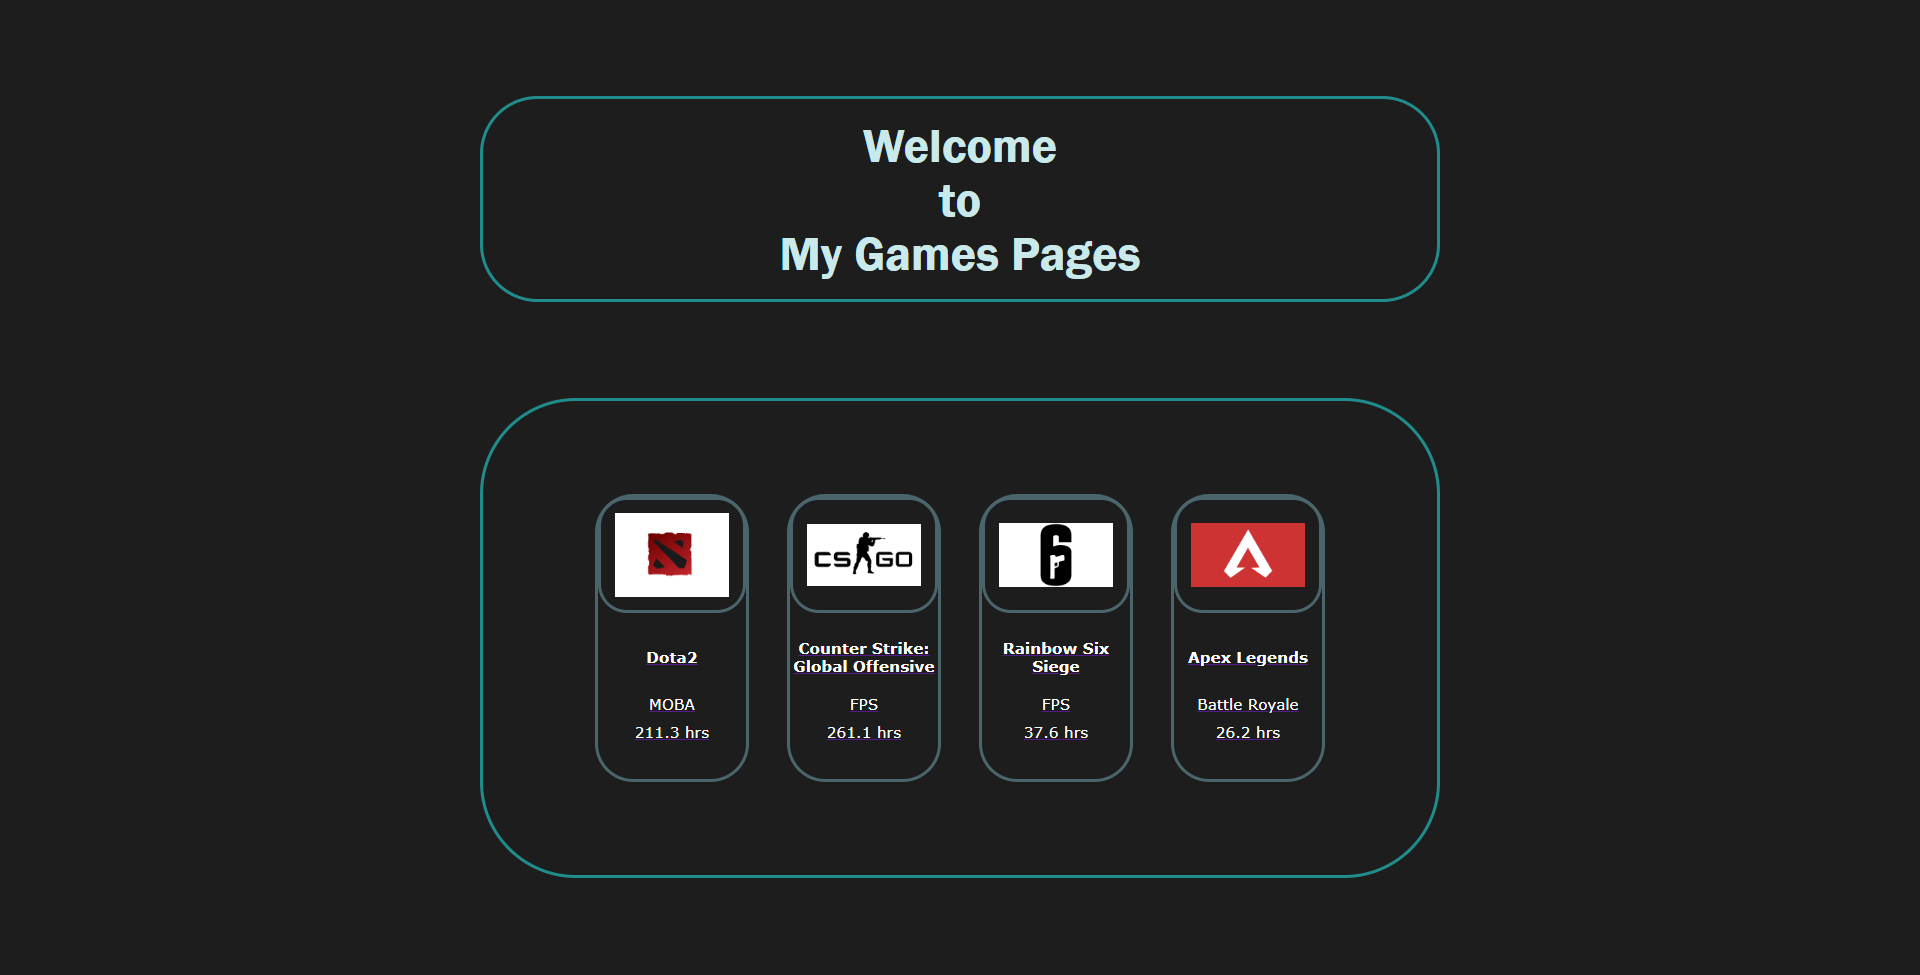
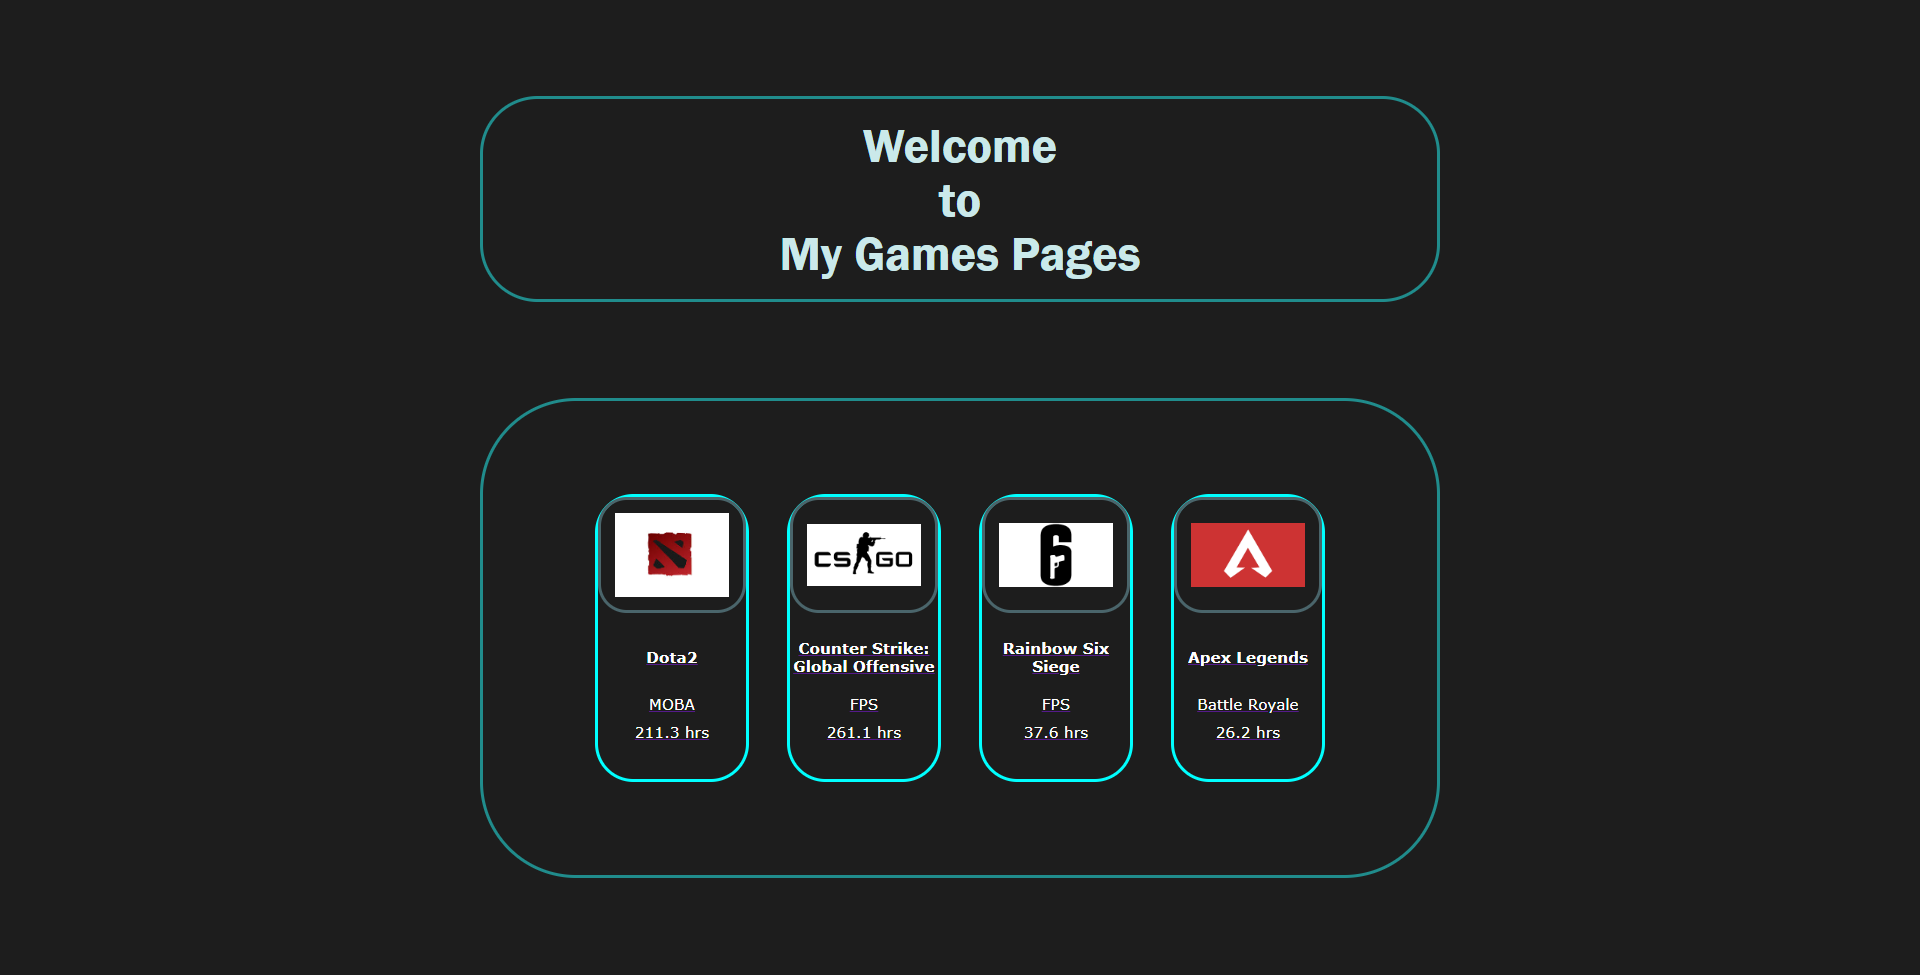
SL2 fifth commit

diff --git a/public/css/games.css b/public/css/games.css
@@ -52,7 +52,7 @@
     display: flex;
     flex-direction: column;
     border-radius: 2vw;
-    border: #4a656b solid;
+    border: cyan solid;
 }
 
 .box-gambar{

diff --git a/resources/views/data/description.blade.php b/resources/views/data/description.blade.php
@@ -8,18 +8,76 @@
     <link rel="stylesheet" href="css/description.css">
 </head>
 <body>
+<style>
+* {
+    padding: 0;
+    margin: 0;
+    box-sizing: border-box;
+}
+
+.box-luar{
+    height: 50.8vw;
+    width: 100%;
+    display: flex;
+    flex-direction: column;
+    align-items: center;
+    padding-left: 3vw;
+    padding-right: 3vw;
+    gap: 5vw;
+    background-color: #1d1d1d;
+    /* border: red solid; */
+}
+
+.box-gambar{
+    height: 19vw;
+    width: 20vw;
+    margin-top: 2.5vw;
+    display: flex;
+    flex-direction: column;
+    justify-content: center;
+    border-radius: 3vw;
+    border: #4a656b solid;
+}
+
+.games-image{
+    width: 18vw;
+    height: 16vw;
+}
+
+.box-description{
+    height: 20vw;
+    width: 40vw;
+    display: flex;
+    flex-direction: column;
+    gap: 1vw;
+    padding-top: 2vw;
+    padding-left: 2vw;
+    padding-right: 2vw;
+    border-radius: 4vw;
+    border: cyan solid;
+}
+
+.GameName, .GameType, .Playtime, .GameDescription{
+    color: white;
+    font-size: 1vw;
+    font-family:Arial, Helvetica, sans-serif;
+}
+
+
+</style>
     <div class="box-luar">
         @foreach ($games as $game)
+
             @if ($game['id'] == $id)
             <div class="box-gambar">
                 <img class="games-img" src="{{ asset('img/' .$game['Img']) }}">
             </div>
 
             <div class="box-description">
-                <p>Game Name: {{ $game['name'] }}</p>
-                <p>Game Type: {{ $game['type'] }}</p>
-                <p>Playtime: {{ $game['playtime'] }}</p>
-                <p>Game Description: {{ $game['description'] }}</p>
+                <p class="GameName">Game Name: {{ $game['name'] }}</p>
+                <p class="GameType">Game Type: {{ $game['type'] }}</p>
+                <p class="Playtime">Playtime: {{ $game['playtime'] }}</p>
+                <p class="GameDescription">Game Description: {{ $game['description'] }}</p>
             </div>
             @endif
         @endforeach

diff --git a/README.md b/README.md
@@ -11,7 +11,10 @@ Berikut merupakan hasil screenshot dari personal website yang sudah dibuat:
 ```
 ![This is a alt text.](SS1.png "This is a sample image.")
 ![This is a alt text.](SS2.png "This is a sample image.")
-<!-- ![This is a alt text.](SS3.png "This is a sample image.") -->
+![This is a alt text.](SS3.png "This is a sample image.")
+![This is a alt text.](SS4.png "This is a sample image.")
+![This is a alt text.](SS5.png "This is a sample image.")
+![This is a alt text.](SS6.png "This is a sample image.")
 
 ## Usage
 ```sh
